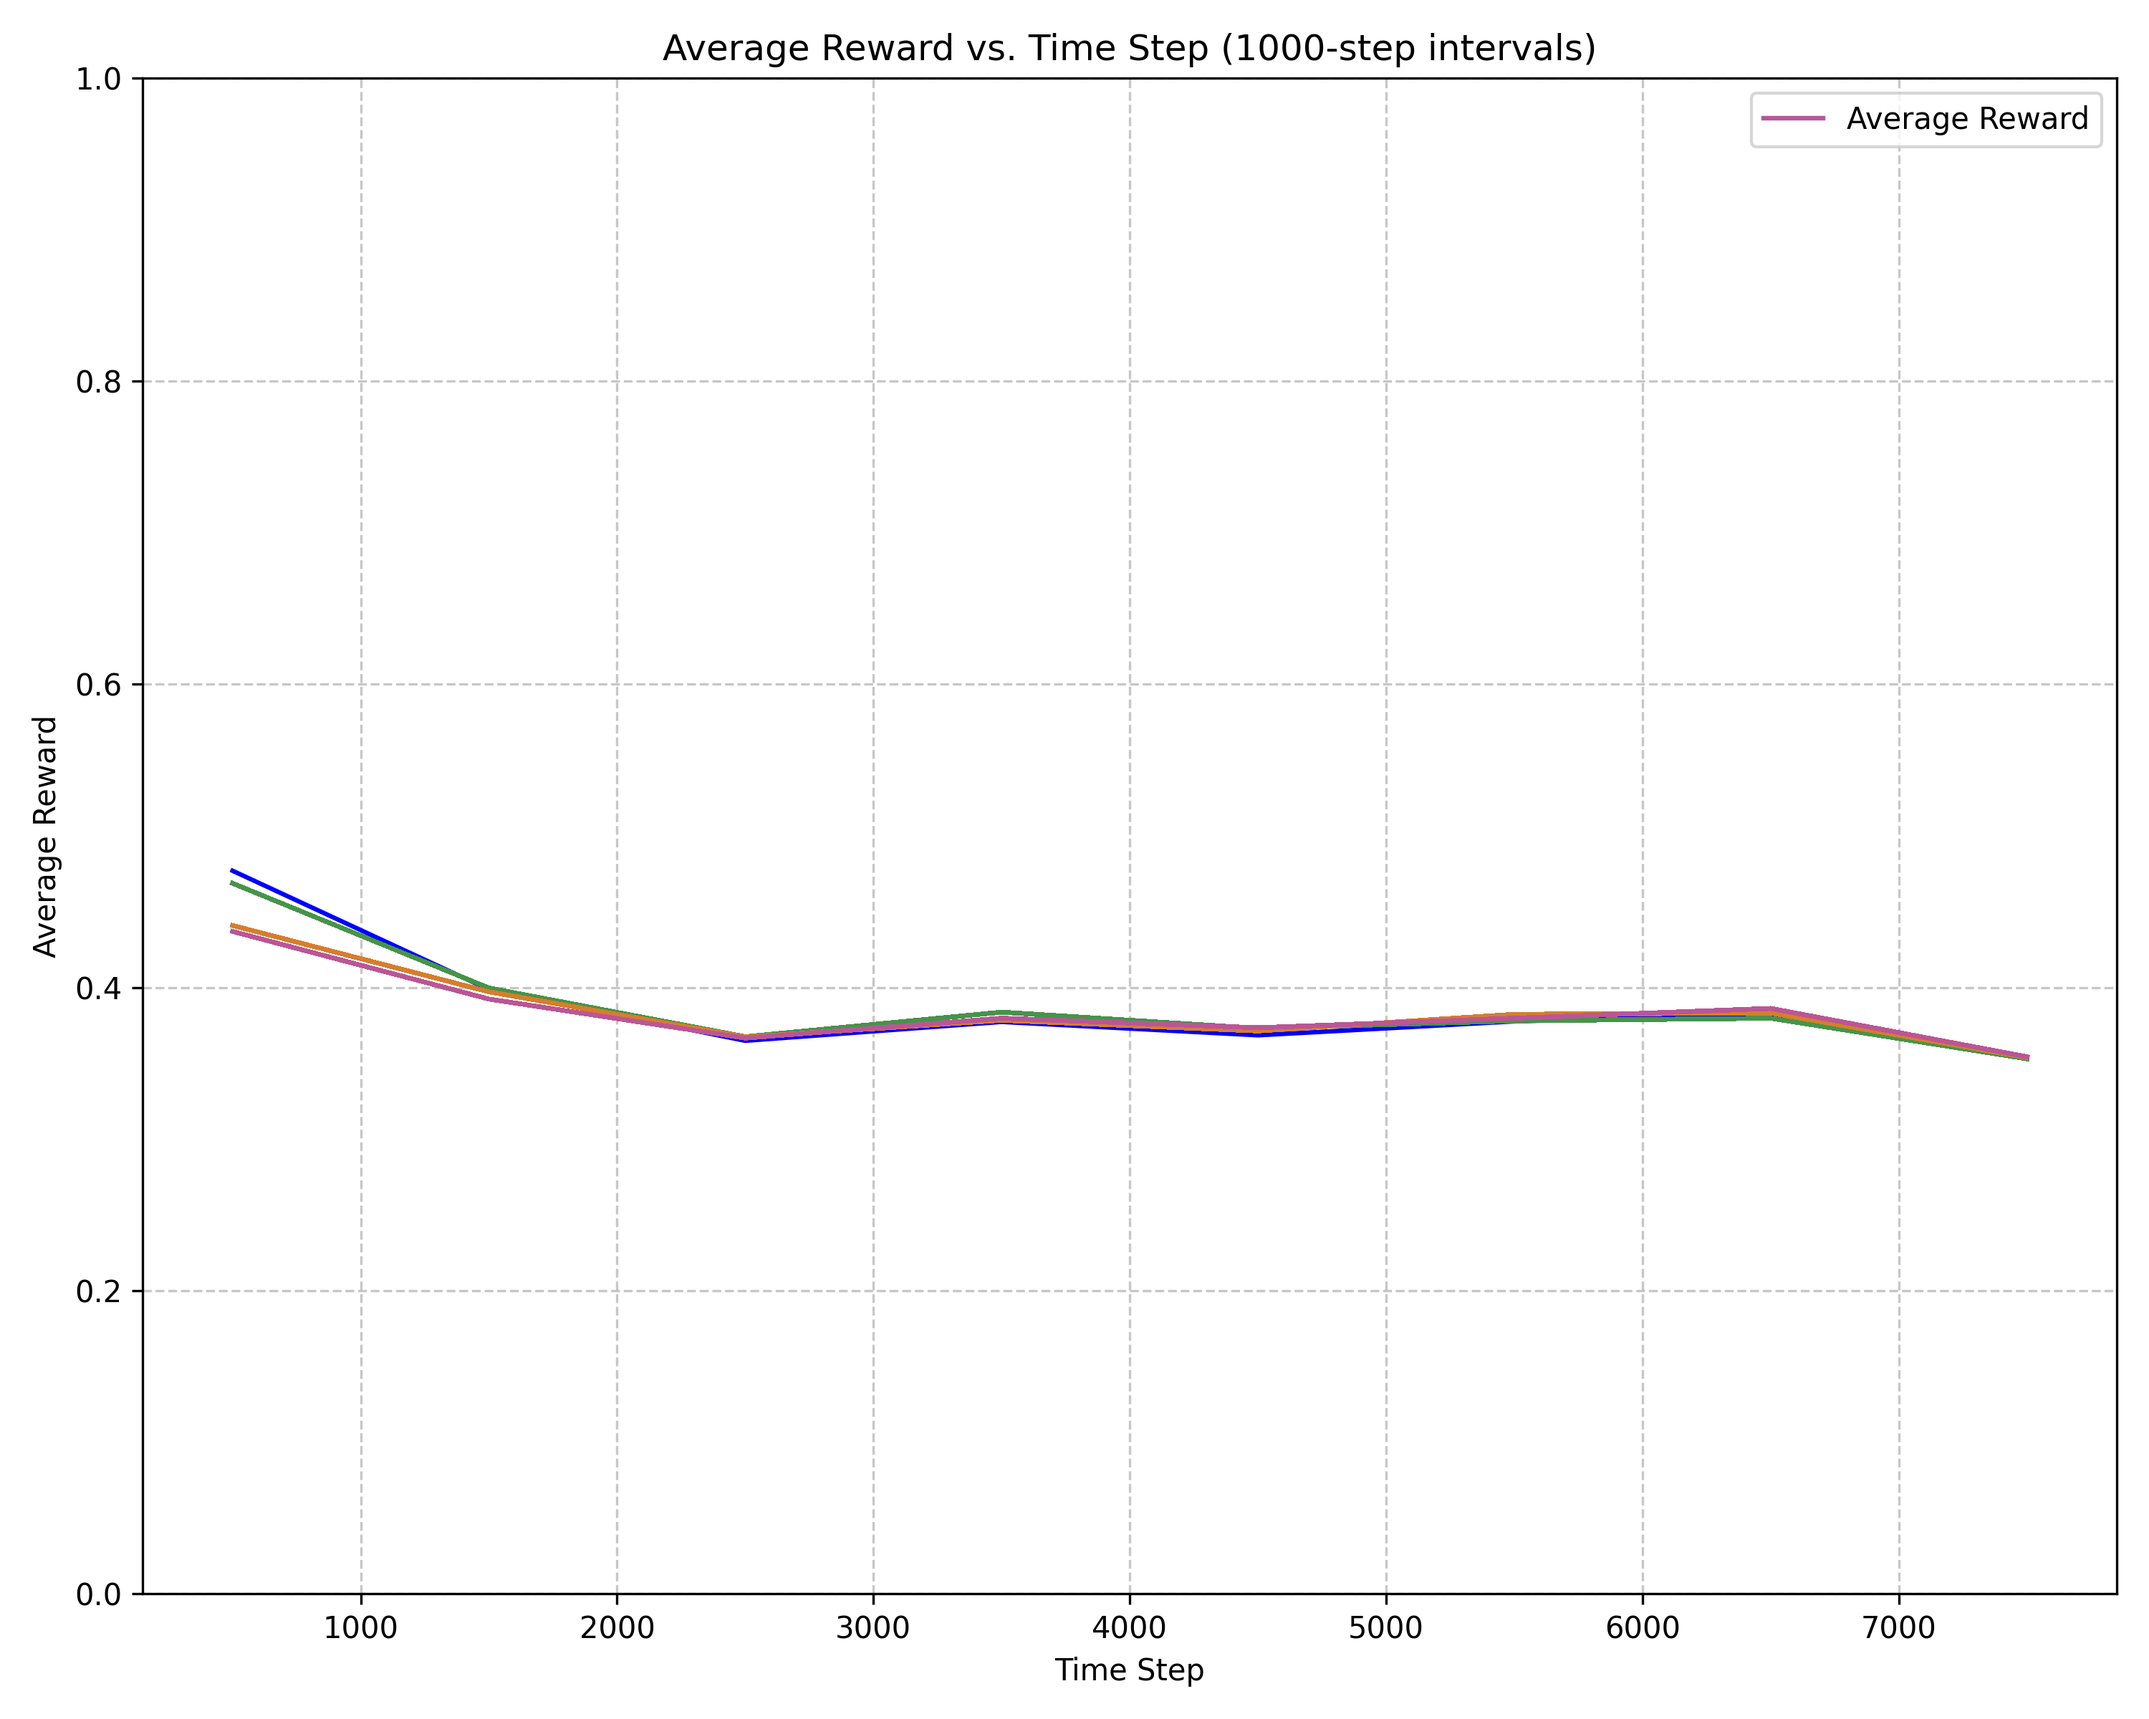
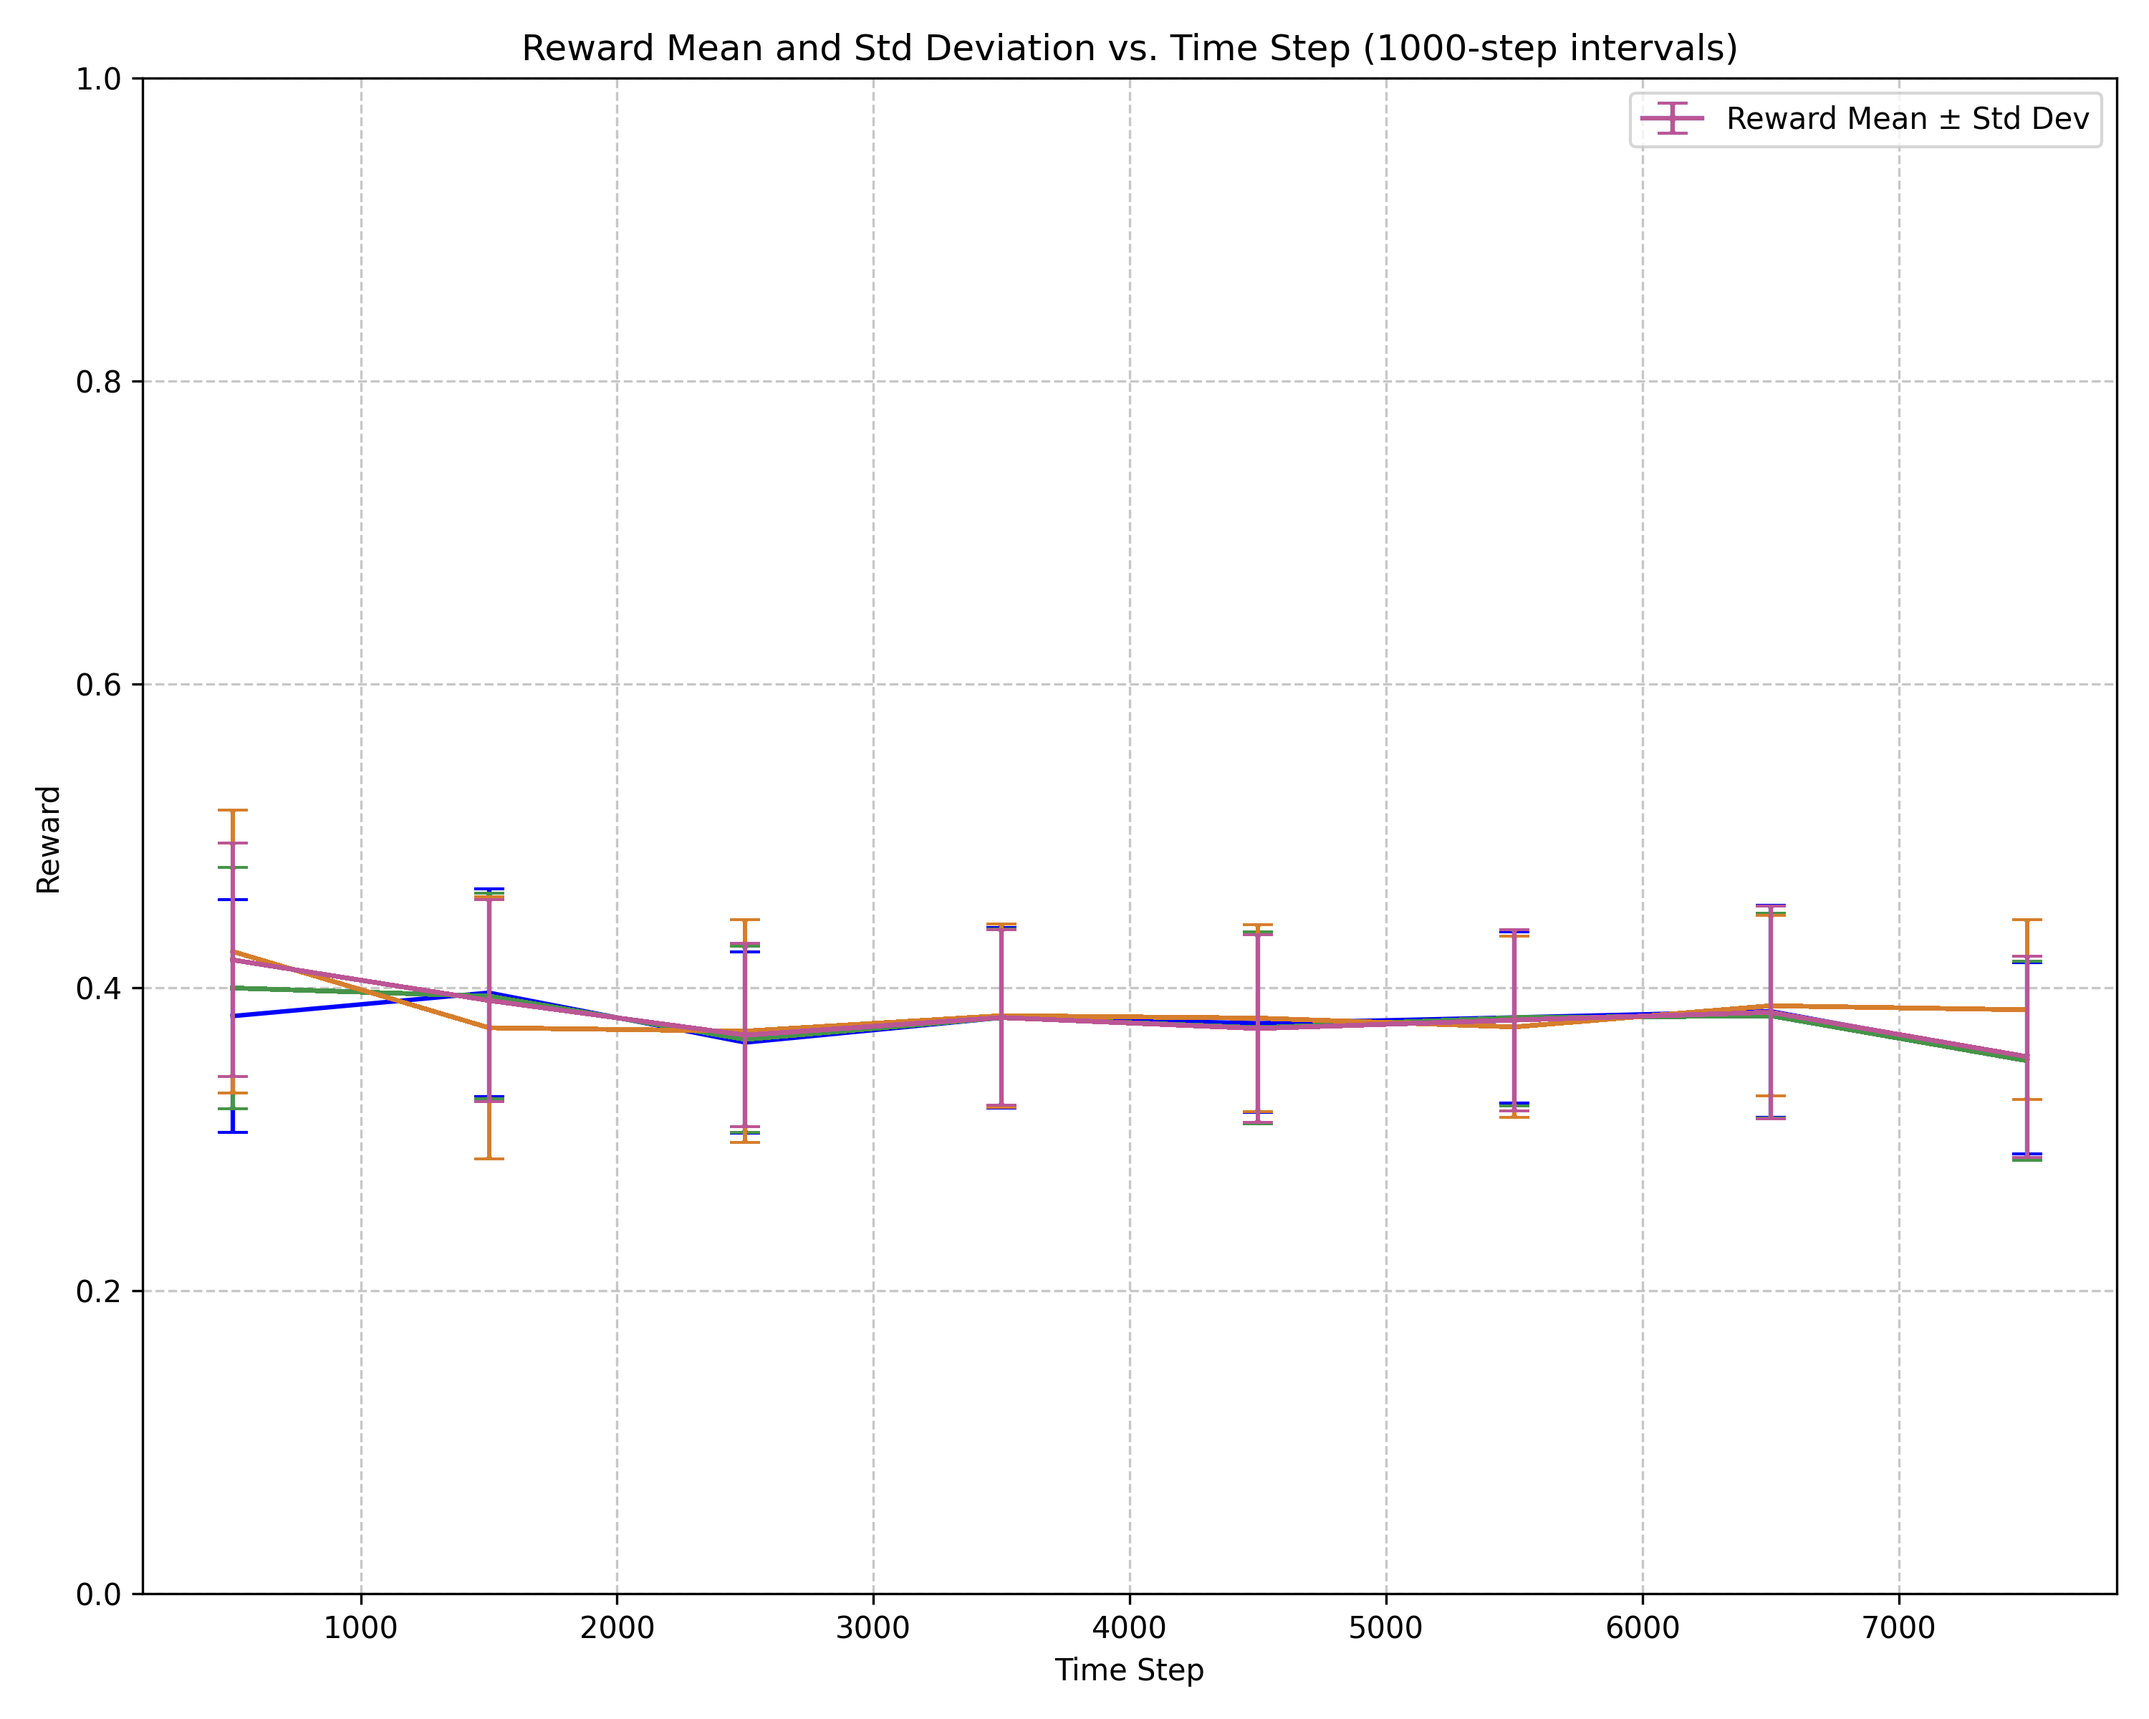
till errorbar plot

diff --git a/agent.py b/agent.py
@@ -32,7 +32,7 @@ class Agent(BaseModel):
         self.action_all_with_power = np.zeros([self.num_vehicle, 3, 2],dtype = 'int32')   # this is actions that taken by V2V links with power
         self.action_all_with_power_training = np.zeros([20, 3, 2],dtype = 'int32')   # this is actions that taken by V2V links with power
         self.reward = []
-        self.learning_rate = 0.04
+        self.learning_rate = 0.01
         self.learning_rate_minimum = 0.0001
         self.learning_rate_decay = 0.96
         self.learning_rate_decay_step = 500000
@@ -260,24 +260,27 @@ class Agent(BaseModel):
         interval = 1000
         num_intervals = len(v2i_rates_over_time) // interval
         mean_v2i_rates = []
+        std_v2i_rates = []
 
         for i in range(num_intervals):
             start_index = i * interval
             end_index = start_index + interval
-            mean_v2i_rates.append(np.mean(v2i_rates_over_time[start_index:end_index]))
+            interval_data = v2i_rates_over_time[start_index:end_index]
+            mean_v2i_rates.append(np.mean(interval_data))
+            std_v2i_rates.append(np.std(interval_data))
 
         # Create an x-axis for the mean values
         x_values = np.arange(num_intervals) * interval + (interval / 2)  # Midpoint of each interval
 
-        plt.plot(x_values, mean_v2i_rates, label='Average Reward', color='blue', linestyle='-')
+        plt.errorbar(x_values, mean_v2i_rates, yerr=std_v2i_rates, label='Reward Mean ± Std Dev', color='blue', linestyle='-', capsize=5)
         plt.xlabel('Time Step')
-        plt.ylabel('Average Reward')
-        plt.title('Average Reward vs. Time Step (1000-step intervals)')
+        plt.ylabel('Reward')
+        plt.title('Reward Mean and Std Deviation vs. Time Step (1000-step intervals)')
         plt.grid(True, linestyle='--', alpha=0.7)
-        plt.ylim(0.3,0.5)
+        plt.ylim(0, 1)
         plt.legend()
         plt.tight_layout()
-        plt.savefig('reward_vs_time_step_all_0.04.png', dpi=300)
+        plt.savefig('reward_vs_time_step_all_0.01_errorbar.png', dpi=300)
         plt.close()
         
         # After training, plot and save the graphs
@@ -745,7 +748,3 @@ def main(_):
 
 if __name__ == '__main__':
     tf.app.run()
-        
-
-
-

diff --git a/temp.py b/temp.py
@@ -4,10 +4,10 @@ from PIL import Image
 
 # Image paths (you can reorder these if needed)
 image_paths = [
-    "./image2/reward_vs_time_step_all_0.01.png",  
-    "./image2/reward_vs_time_step_all_0.02.png",  
-    "./image2/reward_vs_time_step_all_0.03.png",  
-    "./image2/reward_vs_time_step_all_0.04.png"   
+    "./image2/reward_vs_time_step_all_0.01_errorbar.png",  
+    "./image2/reward_vs_time_step_all_0.02_errorbar.png",  
+    "./image2/reward_vs_time_step_all_0.03_errorbar.png",  
+    "./image2/reward_vs_time_step_all_0.04_errorbar.png"   
 ]
 
 # Correct colors: Purple, Green, Blue, Orange (in reverse)
